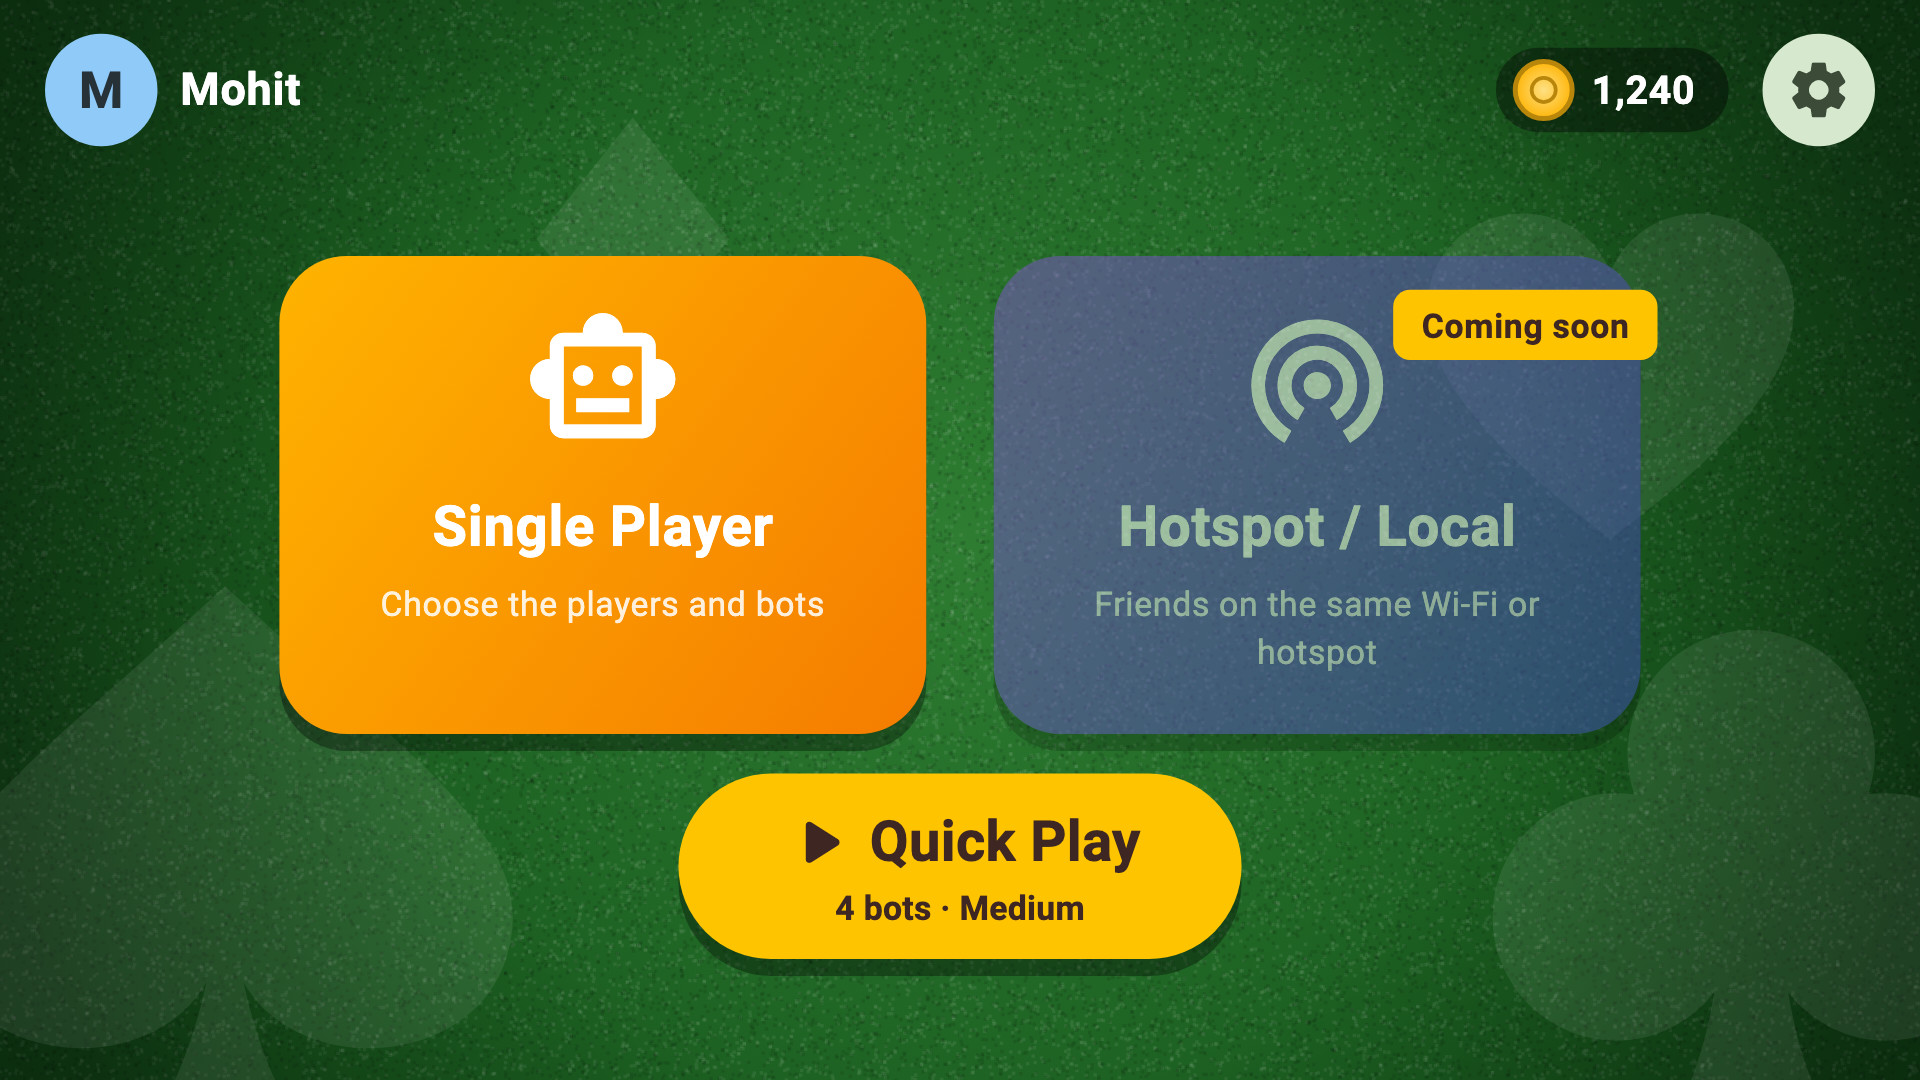
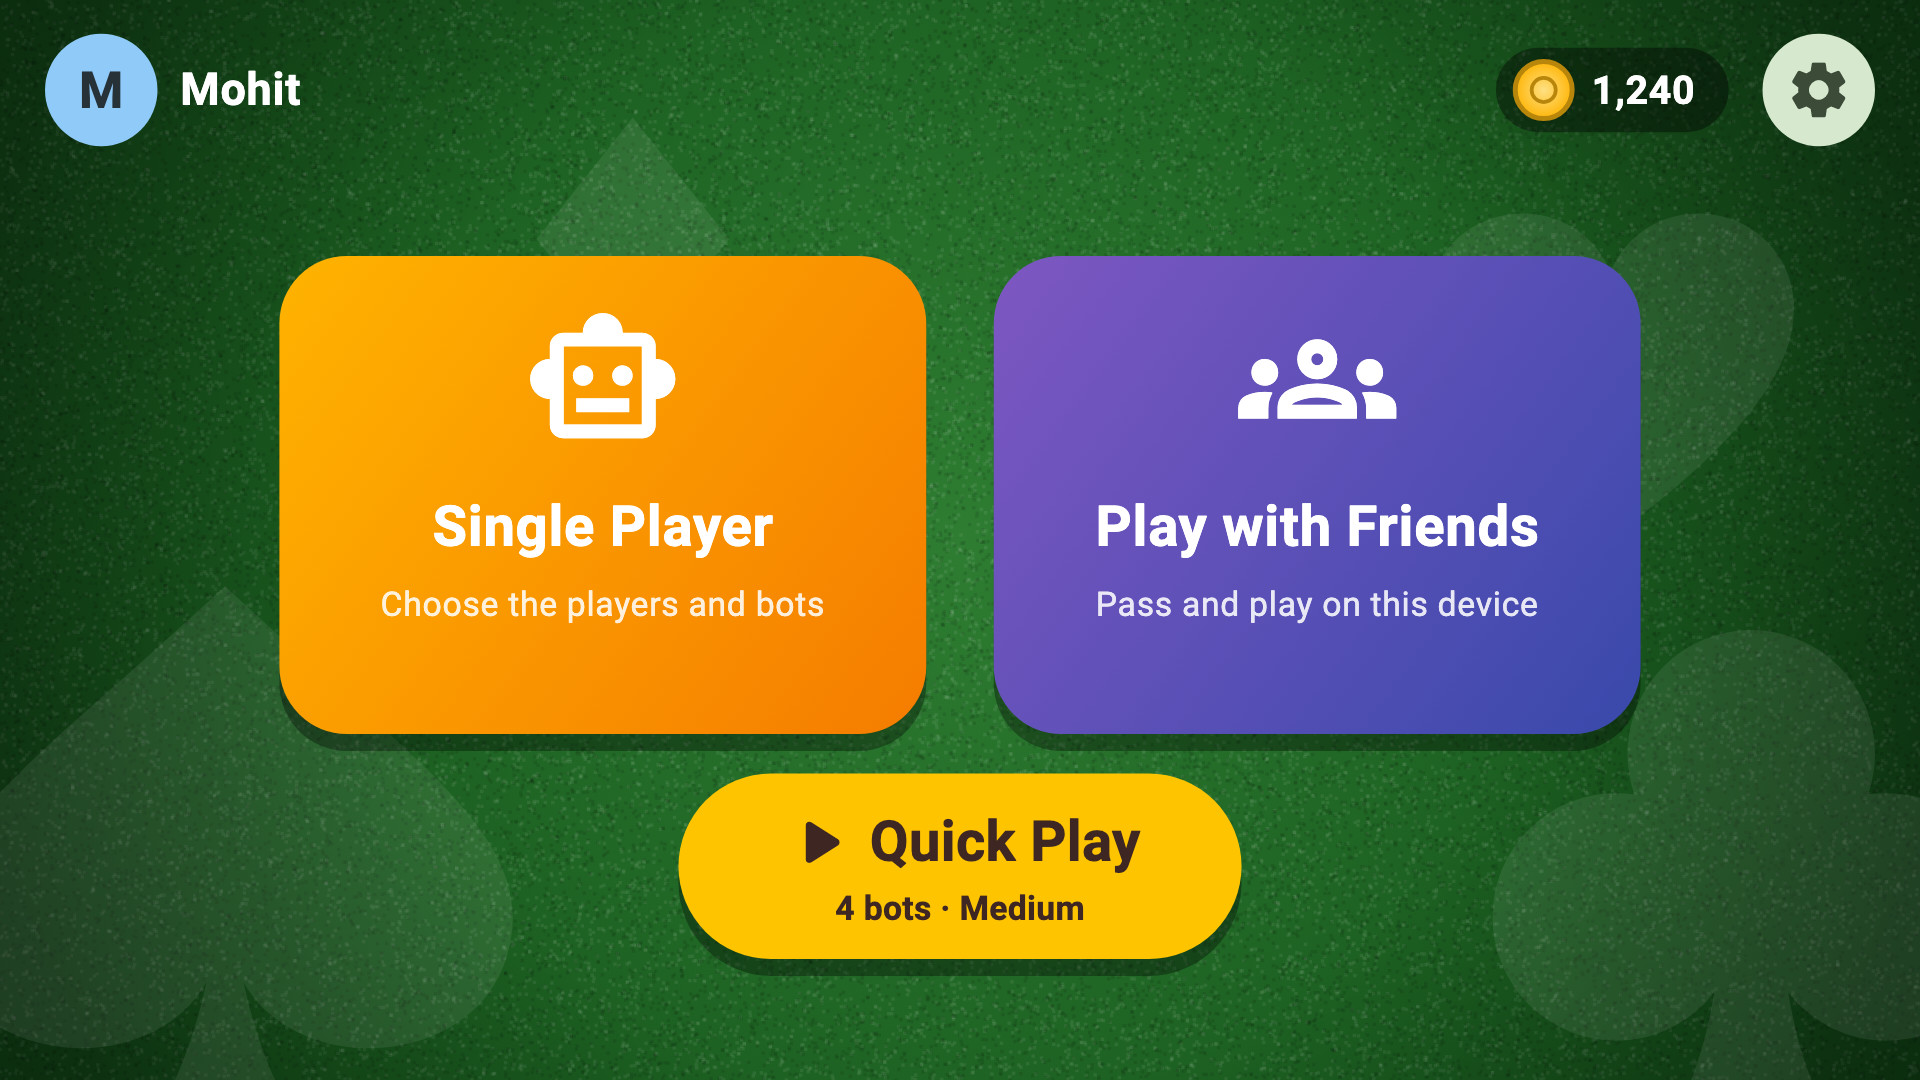
Mark Phase 4 under way, with pass and play in the listing
CLAUDE.md and the README record Phase 3 as done and pass and play as the
first part of Phase 4. The store listing describes playing with friends
and gains a screenshot of the device being passed; the screenshots are
now rendered as a returning player, so no first-time tips appear.

Changed region(s): [[0.5, 0.2139, 0.875, 0.7028]]

diff --git a/tool/render_screenshots.dart b/tool/render_screenshots.dart
@@ -5,6 +5,7 @@
 //
 // Run from the project folder:  flutter test tool/render_screenshots.dart
 
+import 'dart:async';
 import 'dart:io';
 import 'dart:math';
 import 'dart:ui' as ui;
@@ -48,7 +49,12 @@ Future<void> pumpApp(
       child: ProviderScope(
         overrides: [
           preferencesProvider.overrideWithValue(
-            InMemoryPreferences({'profile.name': 'Mohit', ...saved}),
+            // A returning player: the first-time guide's tips are done.
+            InMemoryPreferences({
+              'profile.name': 'Mohit',
+              'guide.done': 'draw,discard,sets,joker',
+              ...saved,
+            }),
           ),
           botThinkingTimeProvider.overrideWithValue(
             () => const Duration(days: 1),
@@ -180,6 +186,28 @@ void main() {
     await shoot(tester, '4-setup');
   });
 
+  testWidgets('passing the device between friends', (tester) async {
+    atPhoneSize(tester);
+    await pumpApp(
+      tester,
+      home: singlePlayerTable,
+      overrides: [
+        randomProvider.overrideWithValue(Random(5)),
+        matchSetupProvider.overrideWith(_ThreeFriends.new),
+      ],
+    );
+    await play(tester, const Duration(seconds: 2));
+    final controller = controllerOf(tester)
+      ..takeOver()
+      ..draw(DrawSource.stock);
+    final hand = ProviderScope.containerOf(
+      tester.element(find.byType(TableScreen)),
+    ).read(tableProvider).hand;
+    unawaited(controller.discard(hand.last.id));
+    await play(tester, const Duration(seconds: 1));
+    await shoot(tester, '7-pass');
+  });
+
   testWidgets('winning and the scores', (tester) async {
     atPhoneSize(tester);
     final hearts = run(Suit.hearts, [Rank.three, Rank.four, Rank.five]);
@@ -252,4 +280,10 @@ void main() {
     await play(tester, scoreboardDelay + const Duration(seconds: 1));
     await shoot(tester, '6-scores');
   });
+}
+
+/// Three friends passing the device round.
+class _ThreeFriends extends MatchSetupController {
+  @override
+  MatchSetup build() => MatchSetup.passAndPlay(['Mohit', 'Bina', 'Chandra']);
 }

diff --git a/docs/store/listing.md b/docs/store/listing.md
@@ -46,6 +46,11 @@ computer players who think like real opponents.
 - Cards that deal, slide and land, and a celebration when you win
 - Sounds and gentle vibration on your turn, all switchable
 
+**Play with friends**
+- Pass and play: 2 to 5 people share one phone or tablet
+- The table hides your cards while the phone changes hands, and shows
+  what everyone did since your last turn
+
 Quick Play starts a full table in one tap; Single Player lets you choose the
 players and the bots. Coins are just for fun: you can't buy them and they
 can't be cashed out.
@@ -61,10 +66,11 @@ can't be cashed out.
 |---|---|---|
 | App icon | `assets/branding/icon.png` | 1024 × 1024 (Play wants 512 × 512; scale it down) |
 | Feature graphic | `docs/store/feature-graphic.jpg` | 1024 × 500 |
-| Phone screenshots | `docs/store/screenshots/1-home.jpg` … `6-scores.jpg` | 1920 × 1080 |
+| Phone screenshots | `docs/store/screenshots/1-home.jpg` … `7-pass.jpg` | 1920 × 1080 |
 
 Screenshots, in order: the home screen, a full table, the Dashain table, the
-game setup, winning a round, and the scoreboard.
+game setup, winning a round, the scoreboard, and passing the device between
+friends.
 
 ## Content rating notes
 

diff --git a/README.md b/README.md
@@ -20,12 +20,16 @@ The game is built in phases (see [`docs/roadmap.md`](docs/roadmap.md)):
   screen is playable against bots at three difficulty levels: draw, discard,
   group and show sets, see the joker, win, and follow the scores round by
   round, with sound effects.
-- **Phase 3, polish, is nearly done.** Printed-style cards with classic
+- **Phase 3, polish, is complete.** Printed-style cards with classic
   court figures, three table themes with textured felt and a wooden rim,
   animated dealing, draws and discards, a win celebration, sounds and
   vibration, drag-up and flick discarding, Quick Play and a custom game
-  setup, an app icon and splash screen, and a draft store listing. A
-  playtest with friends and family comes next.
+  setup, a first-time guide, an app icon and splash screen, and a draft
+  store listing.
+- **Phase 4, local multiplayer, is in progress.** Pass and play works: 2
+  to 5 people share one device, and the table is covered between turns so
+  nobody sees another's cards. Playing on separate phones over Wi-Fi comes
+  next.
 
 ### How the code is organised
 

diff --git a/CLAUDE.md b/CLAUDE.md
@@ -15,14 +15,14 @@ A Flutter portfolio project built while learning Dart/Flutter, aimed at junior S
 
 ## Project plan
 
-The full phased roadmap lives in `docs/roadmap.md` — read it for details on any phase. We are currently on **Phase 3**.
+The full phased roadmap lives in `docs/roadmap.md` — read it for details on any phase. We are currently on **Phase 4**.
 
 Phase order (don't skip ahead):
 0. Dart & Flutter foundations
 1. Game logic engine (pure Dart) — complete
 2. Single-player Flutter UI vs bots — complete
-3. Polish (card art, themes, animation, sound) — current phase; MVP complete after this
-4. Local multiplayer (pass-and-play, LAN/hotspot)
+3. Polish (card art, themes, animation, sound) — complete (MVP); a playtest with friends and family is still to come
+4. Local multiplayer (pass-and-play, LAN/hotspot) — current phase; pass-and-play is done
 5. Online multiplayer (separate later project, not part of MVP)
 6. Publish & iterate
 
